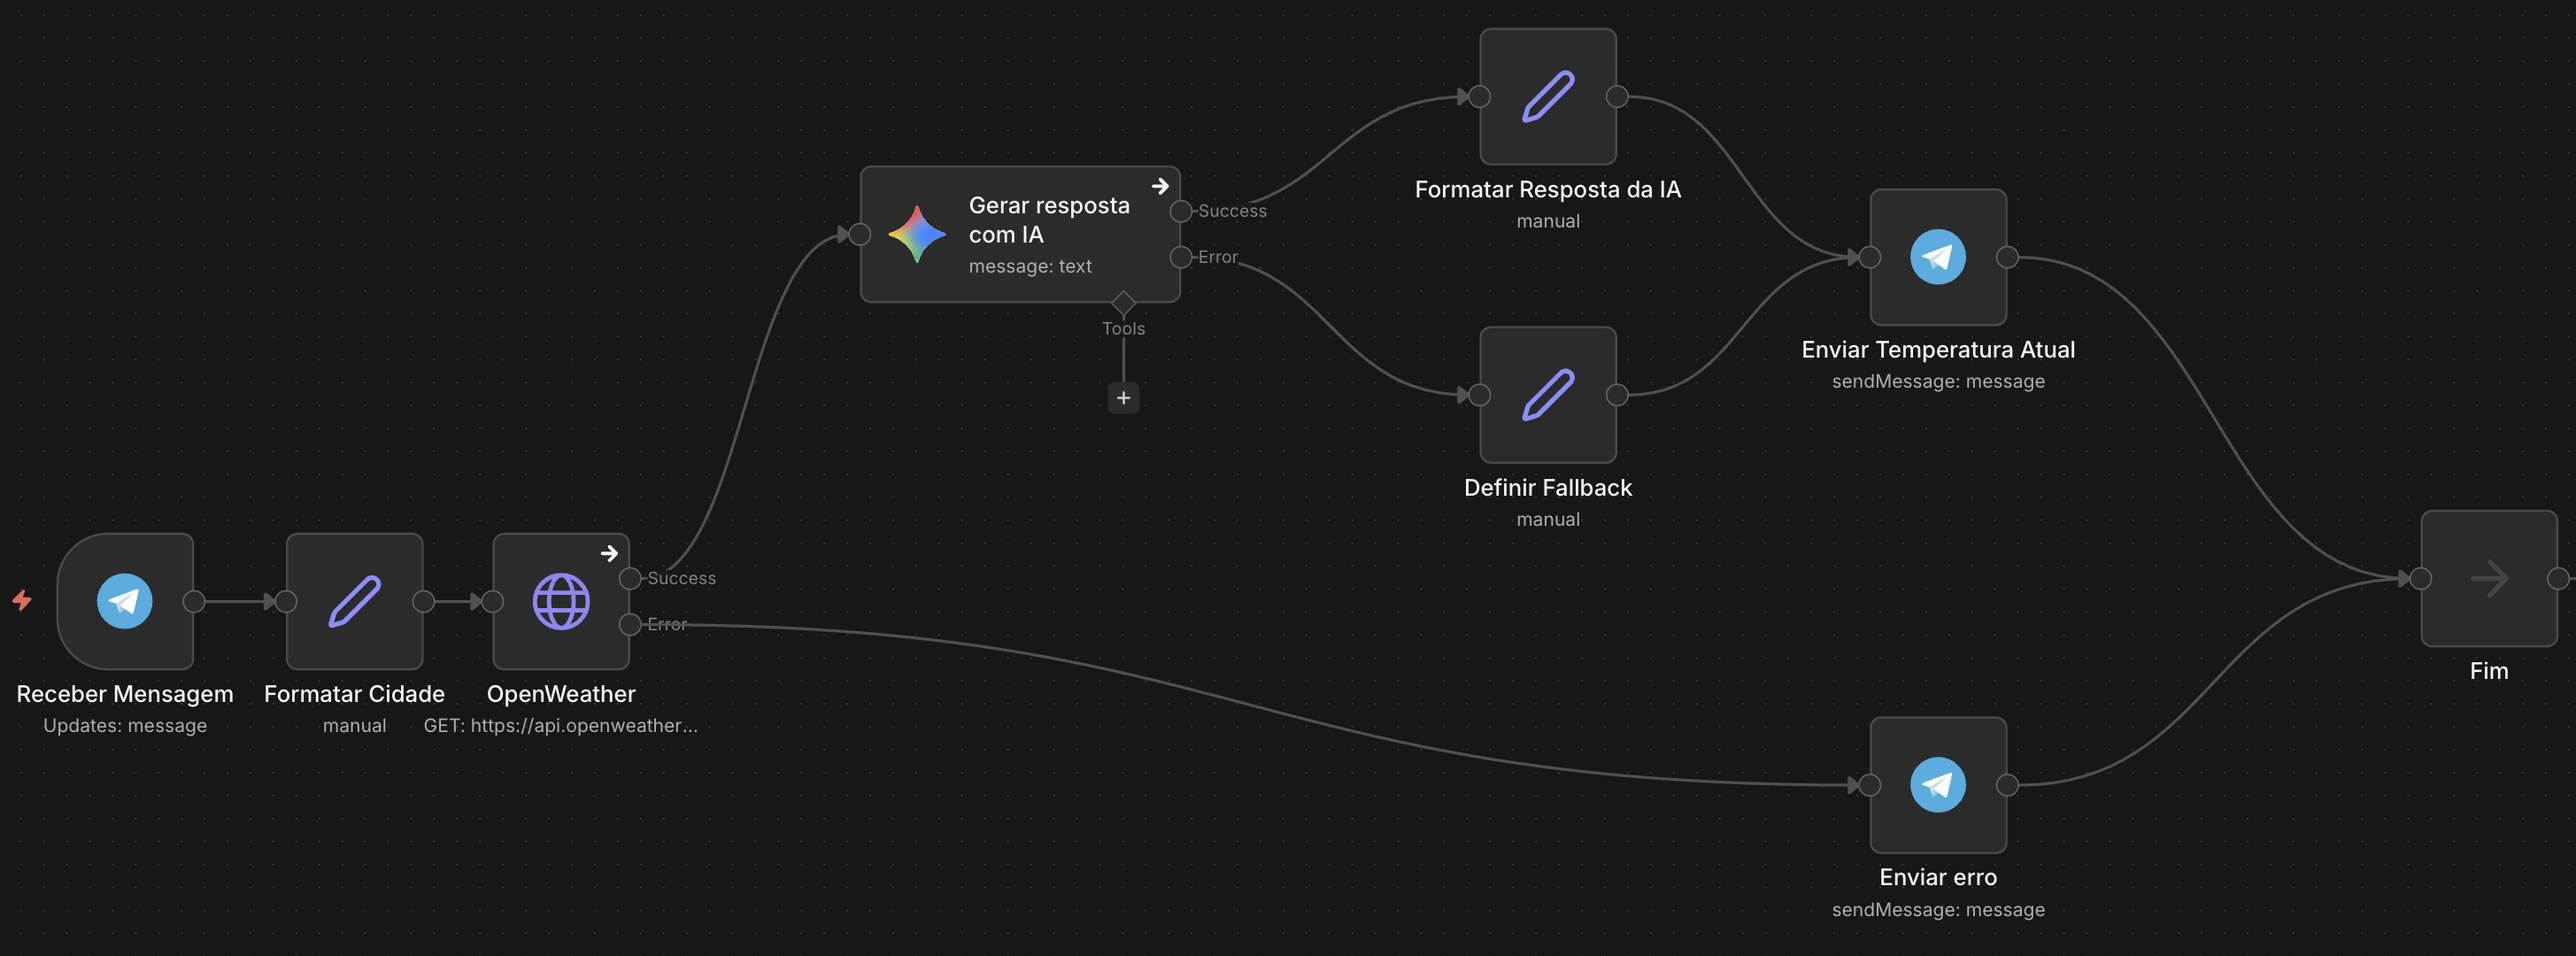
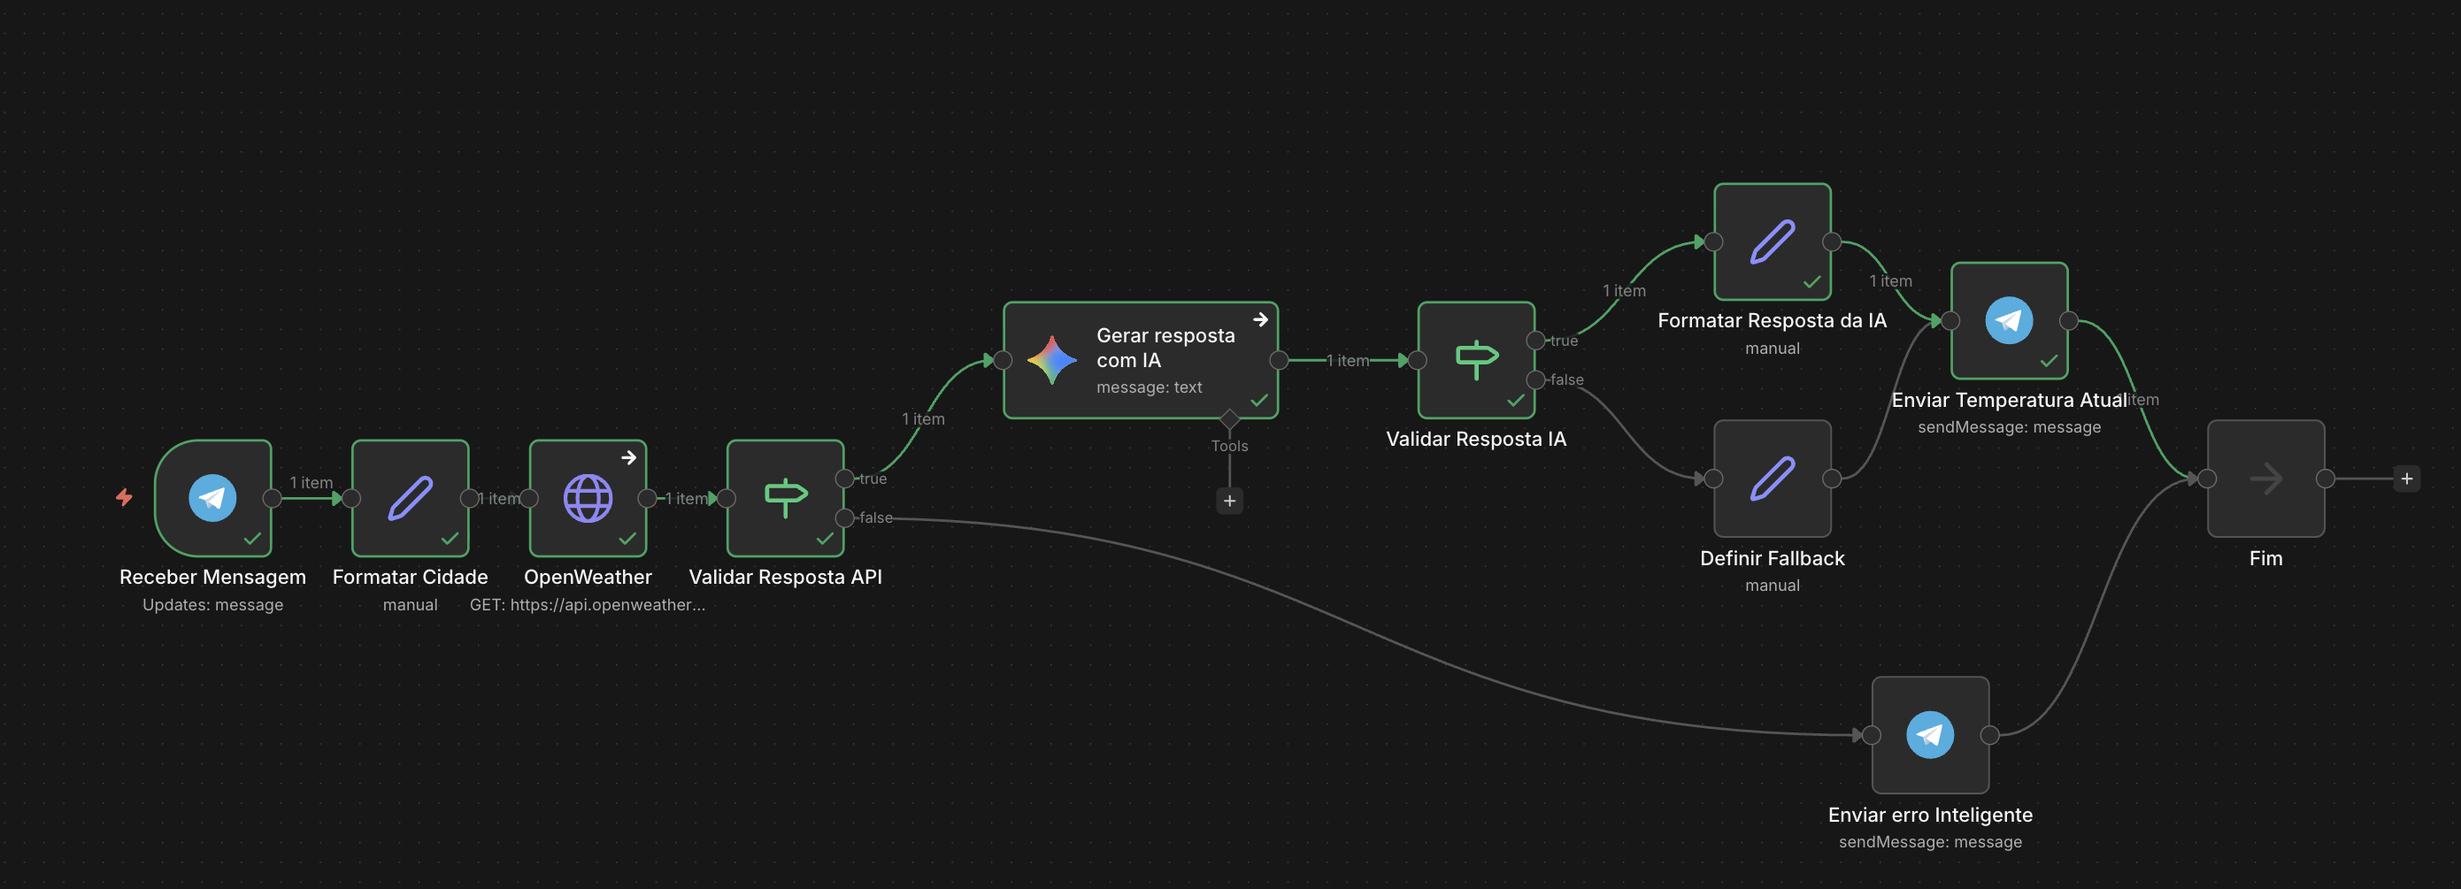
feat: Add API and AI response validation, improve text normalization, update OpenWeather units, and refresh documentation and workflow image.

diff --git a/README.md b/README.md
@@ -6,7 +6,10 @@ Este repositório contém um workflow automatizado para o **n8n** que atua como 
 
 ## 📋 Funcionalidades
 
-- **Recebimento de Mensagens:** Telegram Trigger.
+- **Recebimento de Mensagens (Telegram):**
+  - Utiliza o node **Telegram Trigger** configurado para disparar a cada nova mensagem (**Trigger: On Message**).
+- **Envio de Respostas (Telegram):**
+  - Utiliza nodes configurados com Resource **Message** e Operation **Send Message** para enviar as respostas ao usuário.
 - **Tratamento de Dados:** Normalização de texto (remoção de acentos, espaços extras e formatação compatível com a API).
 - **Integração de API:** Consulta ao endpoint da OpenWeather.
 - **Resposta Inteligente (IA):**
